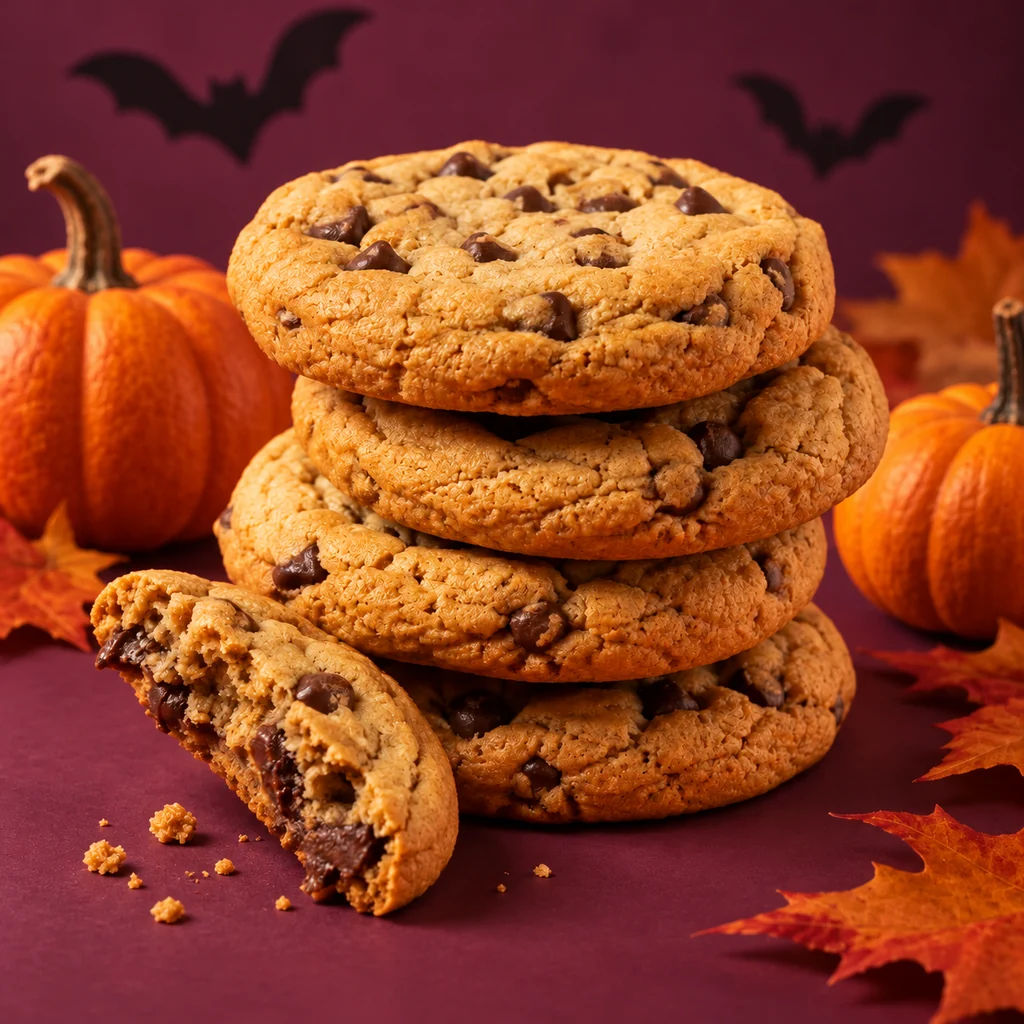
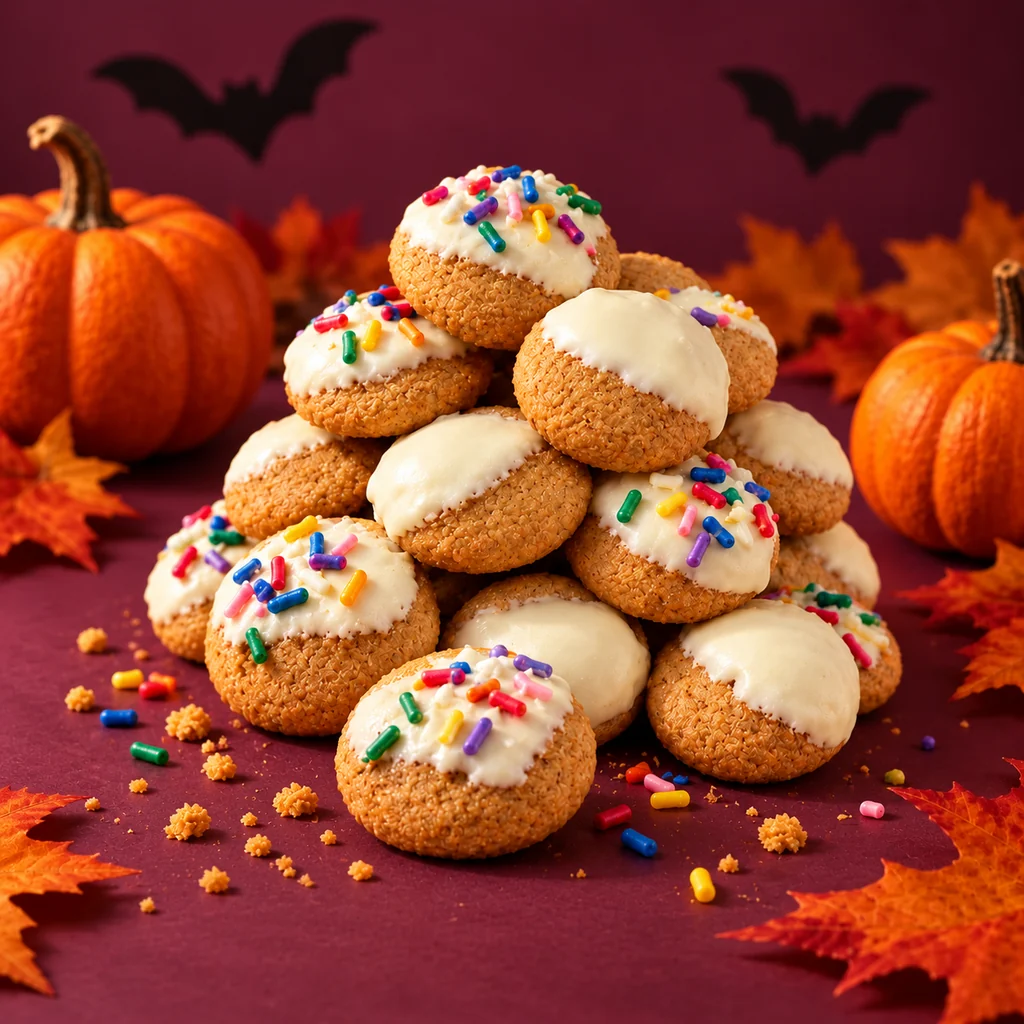
Update seasonal heroes with Snackyzz mini cookies

diff --git a/src/components/seasonal/seasonal-campaigns.ts b/src/components/seasonal/seasonal-campaigns.ts
@@ -41,7 +41,7 @@ export const seasonalCampaigns: Record<SeasonalTheme, Campaign> = {
     breakCta: "Arma tu pedido",
     footer: ["La vida se disfruta", "un bocado a la vez."],
     image: "/assets/hero-cookies.webp",
-    imageAlt: "Cookies con trozos de chocolate sobre un fondo naranja.",
+    imageAlt: "Mini cookies bañadas en chocolate blanco, con y sin sprinkles, sobre un fondo naranja.",
   },
   valentines: {
     headline: "Amor a primera",
@@ -65,7 +65,7 @@ export const seasonalCampaigns: Record<SeasonalTheme, Campaign> = {
     footer: ["El cariño se comparte", "un bocado a la vez."],
     image: "/assets/seasons/valentines.webp",
     imageAlt:
-      "Cookies con chocolate en una escena de San Valentín con tonos rosa y pétalos.",
+      "Mini cookies bañadas en chocolate blanco, con y sin sprinkles, en una escena de San Valentín con tonos rosa y pétalos.",
   },
   easter: {
     headline: "Un antojo que",
@@ -89,7 +89,7 @@ export const seasonalCampaigns: Record<SeasonalTheme, Campaign> = {
     footer: ["Que florezcan los encuentros", "y los pequeños antojos."],
     image: "/assets/seasons/easter.webp",
     imageAlt:
-      "Cookies con chocolate en una escena de Pascua con huevos decorativos y flores.",
+      "Mini cookies bañadas en chocolate blanco, con y sin sprinkles, en una escena de Pascua con huevos decorativos y flores.",
   },
   halloween: {
     headline: "Caer en la tentación",
@@ -113,7 +113,7 @@ export const seasonalCampaigns: Record<SeasonalTheme, Campaign> = {
     footer: ["Una noche para compartir.", "Una cookie más, por si acaso."],
     image: "/assets/seasons/halloween.webp",
     imageAlt:
-      "Cookies con chocolate en una escena de Halloween con calabazas y tonos ciruela.",
+      "Mini cookies bañadas en chocolate blanco, con y sin sprinkles, en una escena de Halloween con calabazas y tonos ciruela.",
   },
   thanksgiving: {
     headline: "Gracias por compartir",
@@ -137,7 +137,7 @@ export const seasonalCampaigns: Record<SeasonalTheme, Campaign> = {
     footer: ["Gracias por los encuentros.", "Y por compartir el antojo."],
     image: "/assets/seasons/thanksgiving.webp",
     imageAlt:
-      "Cookies con chocolate en una escena de otoño con hojas, trigo y tonos cobre.",
+      "Mini cookies bañadas en chocolate blanco, con y sin sprinkles, en una escena de otoño con hojas, trigo y tonos cobre.",
   },
   christmas: {
     headline: "La Navidad sabe mejor",
@@ -161,7 +161,7 @@ export const seasonalCampaigns: Record<SeasonalTheme, Campaign> = {
     footer: ["Que sobren los encuentros", "y los momentos dulces."],
     image: "/assets/seasons/christmas.webp",
     imageAlt:
-      "Cookies con chocolate junto a un árbol de Navidad y detalles de pino y dorado.",
+      "Mini cookies bañadas en chocolate blanco, con y sin sprinkles, junto a un árbol de Navidad y detalles de pino y dorado.",
   },
   "new-year": {
     headline: "Nuevos comienzos.",
@@ -185,6 +185,6 @@ export const seasonalCampaigns: Record<SeasonalTheme, Campaign> = {
     footer: ["Por nuevos comienzos", "y más momentos juntos."],
     image: "/assets/seasons/new-year.webp",
     imageAlt:
-      "Cookies con chocolate en una escena de Año Nuevo con detalles y confeti dorados.",
+      "Mini cookies bañadas en chocolate blanco, con y sin sprinkles, en una escena de Año Nuevo con detalles y confeti dorados.",
   },
 };

diff --git a/src/features/pages/home.tsx b/src/features/pages/home.tsx
@@ -40,7 +40,6 @@ export function Home({ products, cart }: CatalogPageProps) {
               <br />
               una.
             </strong>
-            <span>COMER SOLO UNA</span>
           </div>
           {theme === "original" && (
             <span className="hero-caption">
